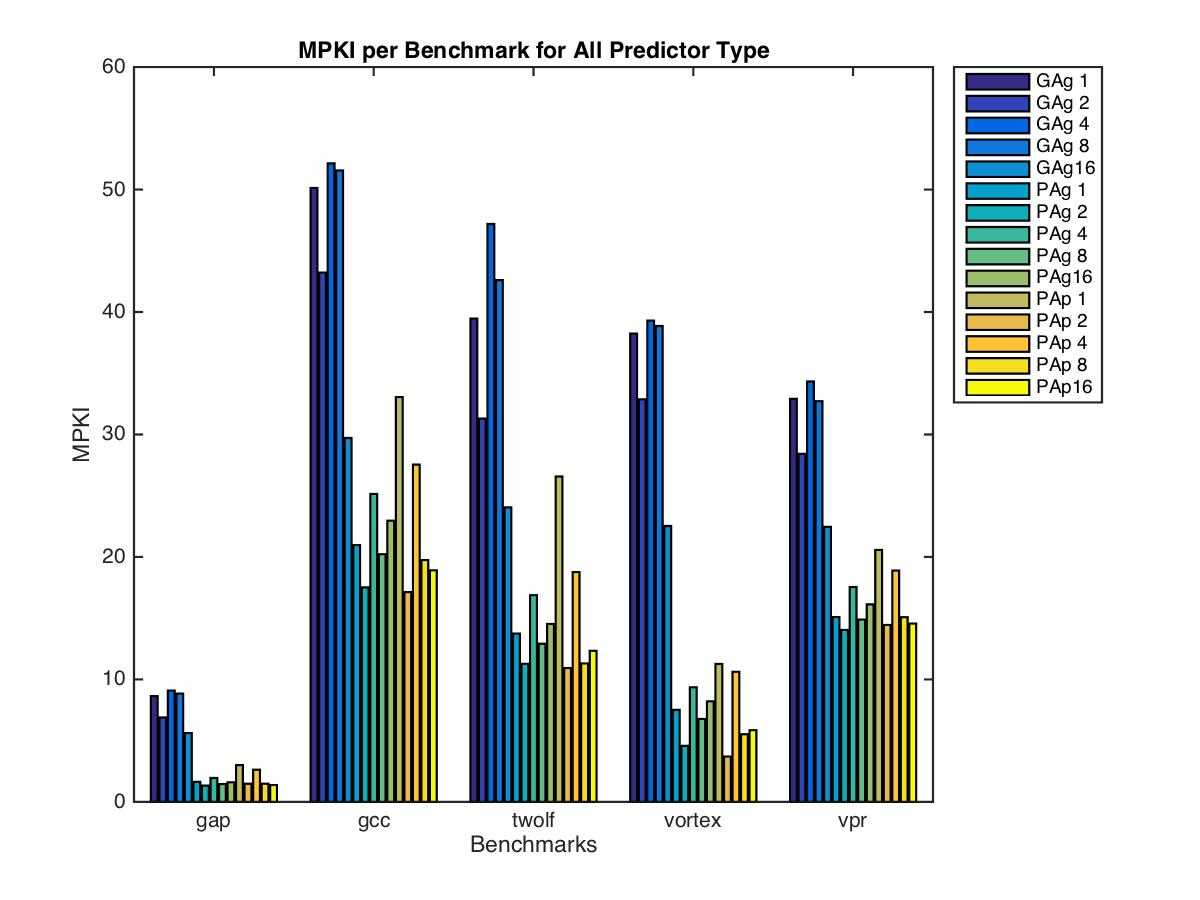
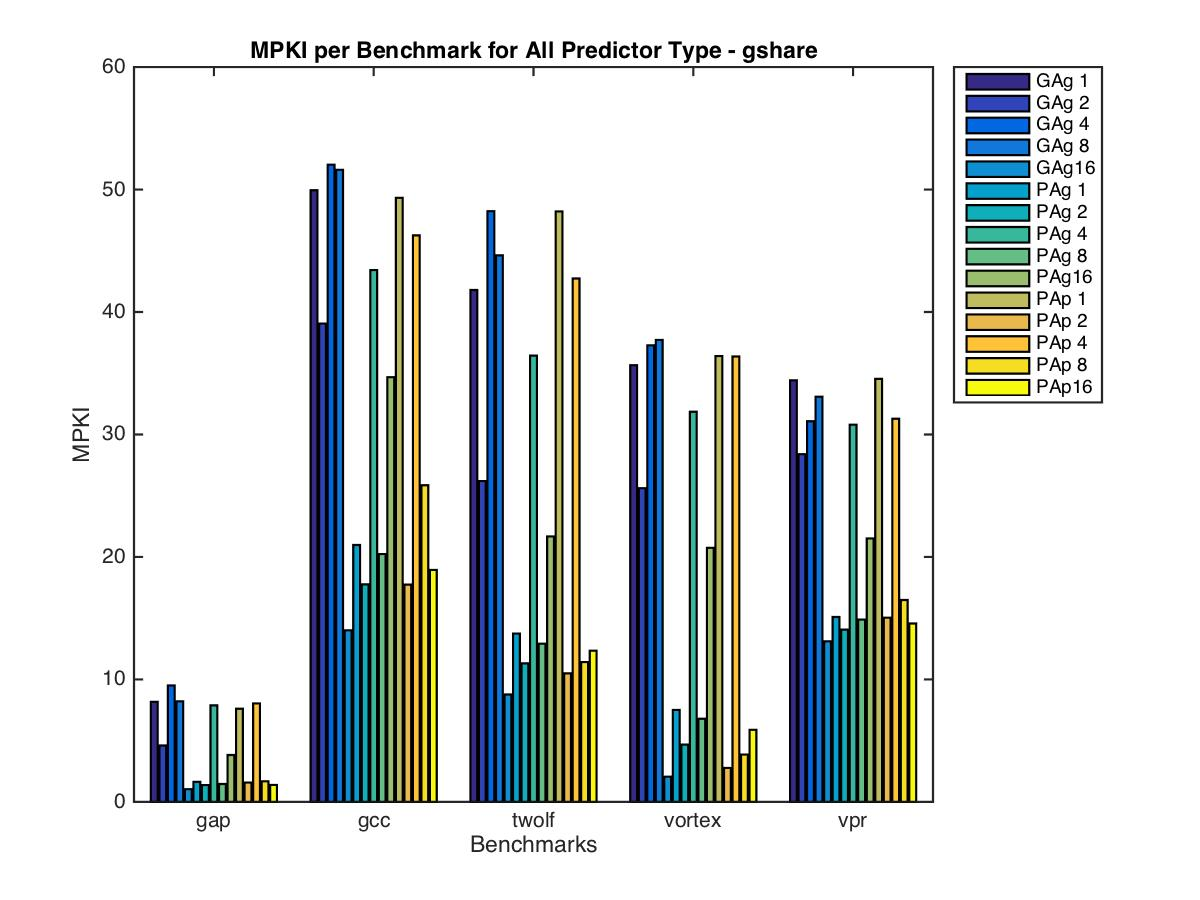
added gshare graphs

diff --git a/plot_two_level.m b/plot_two_level.m
@@ -8,51 +8,86 @@ fid = fopen('TwoLevelData.csv');
 C = textscan(fid, '%s %s %f %f %f %f %f %f', 'Delimiter', ',', 'EmptyValue', -Inf);
 fclose(fid);
 
+% swapping columns for easier sorting
+% cellHolder = C{6};
+% C{6} = C{8};
+% C{8} = cellHolder;
+
 benchmarks = categories(categorical(C{1})); % name of benchmarks
 type = categories(categorical(C{2})); % type of predictor
 width = C{5};
 MPKI = C{7}./(C{8}/1000); % misses per thousand instructions
 
+%[sortA, sortI] = sort(C{8});
+% for i=1:7
+%     sort(C{i}
+%sortedC = C(sortI, :);
+
 %% Displaying Data
-MPKI_bar = reshape(MPKI, 15, [])';
+MPKI_bar = reshape(MPKI(1:2:150), 15, [])';
+MPKI_bar_xor = reshape(MPKI(2:2:150), 15, [])';
 config = categories(categorical(strcat(C{2}, num2str(C{5}))));
 
-%% 2D Representation of All Configurations
+%% 2D Representation of All Configurations - 2 Level 
 figure(1)
 bar(MPKI_bar)
 set(gca, 'XTickLabel', benchmarks)
 legend(config, 'Location', 'BestOutside')
 ylabel('MPKI')
 xlabel('Benchmarks')
-title('MPKI per Benchmark for All Predictor Type')
+title('MPKI per Benchmark for All Predictor Type - 2 Level')
 
 print('2d_2lev_benchmark', '-djpeg')
 
-%% 3D Representation of All Configurations
+%% 3D Representation of All Configurations - 2 Level
 figure(2)
 bar3(MPKI_bar)
 zlabel('MPKI')
 ylabel('Benchmark')
 xlabel('Configurations')
-
+title('3D Representation - 2 Level')
 set(gca, 'YTickLabel', benchmarks)
 set(gca, 'XTickLabel', config)
+
 print('3d_2lev_benchmark', '-djpeg')
 
-%% Comparing Schemes with Same Length
+%% 2D Representation of All Configurations - gshare 
 figure(3)
-colors = ['b', 'm', 'c', 'r', 'g', 'b'];
-syms = ['o', 'x', 's', '+', 'd', '*', 'v', 'p'];
-MPKI_matrix = reshape(MPKI, 5, 3, 5);
-for i=1:5
-    for j=1:3
-        col_index = randi(6,1);
-        sym_index = randi(8,1);
-        colsym = [colors(col_index), syms(sym_index)];
-        scatter(width(1:5), MPKI_matrix(:,j,i), colsym)
-        hold on
-    end
-end
-xlabel('Width')
+bar(MPKI_bar_xor)
+set(gca, 'XTickLabel', benchmarks)
+legend(config, 'Location', 'BestOutside')
 ylabel('MPKI')
-hold off
+xlabel('Benchmarks')
+title('MPKI per Benchmark for All Predictor Type - gshare')
+
+print('2d_gshare_benchmark', '-djpeg')
+
+%% 3D Representation of All Configurations - gshare
+figure(4)
+bar3(MPKI_bar_xor)
+zlabel('MPKI')
+ylabel('Benchmark')
+xlabel('Configurations')
+title('3D Representation - gshare')
+set(gca, 'YTickLabel', benchmarks)
+set(gca, 'XTickLabel', config)
+
+print('3d_gshare_benchmark', '-djpeg')
+
+% %% Comparing Schemes with Same Length
+% figure(3)
+% colors = ['b', 'm', 'c', 'r', 'g', 'b'];
+% syms = ['o', 'x', 's', '+', 'd', '*', 'v', 'p'];
+% MPKI_matrix = reshape(MPKI, 5, 3, 5);
+% for i=1:5
+%     for j=1:3
+%         col_index = randi(6,1);
+%         sym_index = randi(8,1);
+%         colsym = [colors(col_index), syms(sym_index)];
+%         scatter(width(1:5), MPKI_matrix(:,j,i), colsym)
+%         hold on
+%     end
+% end
+% xlabel('Width')
+% ylabel('MPKI')
+% hold off
